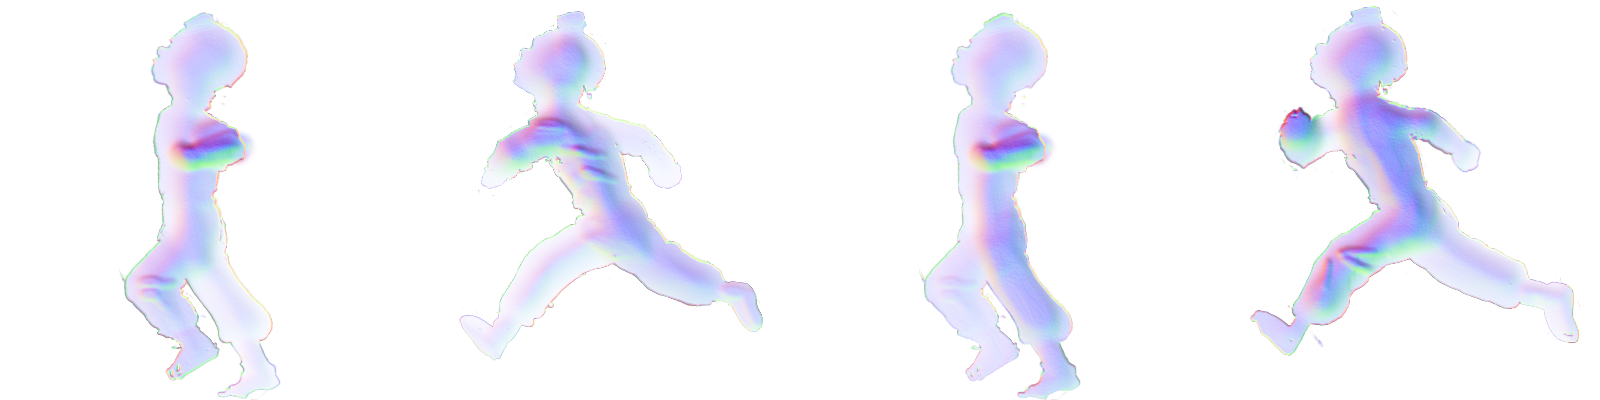
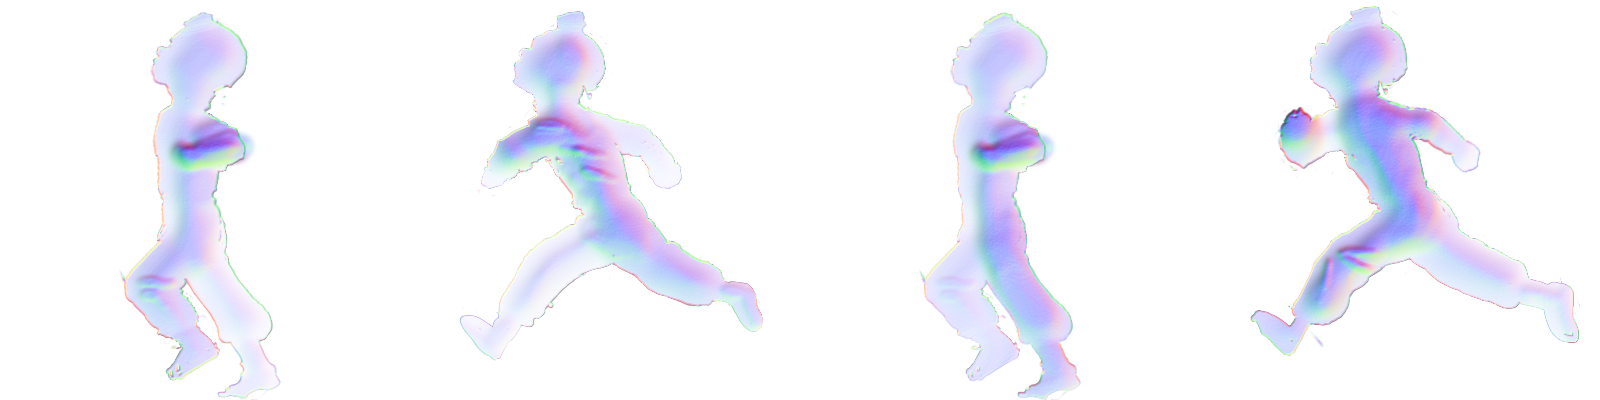
Fix bug in geometry parameters causing wrong normal map frames to be saved

diff --git a/projects/tpv2/systems/geometry/geometry.js b/projects/tpv2/systems/geometry/geometry.js
@@ -1,12 +1,12 @@
 function Geometry(){}
 
-Geometry.getGeometryFromImg = function(img){
+Geometry.getGeometryFromImg = function(img, startx, starty, sourceWidth, sourceHeight){
 
-  function getImageData(img, startx, starty, sourceWidth, sourceHeight){
-    startx = startx || 0;
-    starty = starty || 0;
-    sourceWidth = sourceWidth || img.width;
-    sourceHeight = sourceHeight || img.height
+  function getImageData(){
+    // startx = startx || 0;
+    // starty = starty || 0;
+    // sourceWidth = sourceWidth || img.width;
+    // sourceHeight = sourceHeight || img.height
     var tempCanvas = document.createElement('canvas');
     tempCanvas.width = sourceWidth;
     tempCanvas.height = sourceHeight;
@@ -15,18 +15,5 @@ Geometry.getGeometryFromImg = function(img){
     return tempCtx.getImageData(0, 0, sourceWidth, sourceHeight).data;
   }
 
-  return getImageData(img);
-  // var normals = [];
-  // var normal = [0,0,0];
-  // var depthData = [];
-  // for (var i = 0; i < normalsData.length; i += 4){
-  //   (function(){
-  //     normal[0] = normalsData[i];
-  //     normal[1] = normalsData[i+1];
-  //     normal[2] = normalsData[i+2];
-  //     normals.push(ArrayVec3D.unitVector(normal));
-  //     depthData.push(normalsData[i+4] / 4);
-  //   })();
-  // }
-  // return [normals, depthData];
+  return getImageData();
 }

diff --git a/projects/tpv2/systems/graphics/dynamic-lighting/normalmap-engine.js b/projects/tpv2/systems/graphics/dynamic-lighting/normalmap-engine.js
@@ -10,8 +10,8 @@ LightingEngine.prototype.registerComponent = function(component){
 }
 
 function PointLight(args){
-  this.position = args.position; //array3
-  this.color = args.color; //array3
+  this.position = args.position; // [x,y,z]
+  this.color = args.color; // [r,g,b]
   this.falloff = args.falloff; //in pixels
   // TODO: instead of a variable, make falloff calculation be a whole callback function, so a light can have a non-linear falloff if we want
 }
@@ -123,10 +123,6 @@ function LightingComponent(args){
     }
   };
 
-  // var canvas = document.createElement('canvas');
-  // canvas.width = this.canvasWidth;
-  // canvas.height = this.canvasHeight;
-
   for (var sequence in this.mapFrames){
     for (var facing in this.mapFrames[sequence]){
       var sprite = this.mapFrames[sequence][facing];
@@ -135,6 +131,7 @@ function LightingComponent(args){
       for (var i = 0; i < sprite.frameNumbers.length; i++){
         frameNumber = sprite.frameNumbers[i];
         var startX = frameNumber * this.owner.width;
+        console.log(frameNumber);
         sprite.normals[i] = Geometry.getGeometryFromImg(sprite.spritesheet, startX, 0, this.owner.width, this.owner.height);
       }
     }
